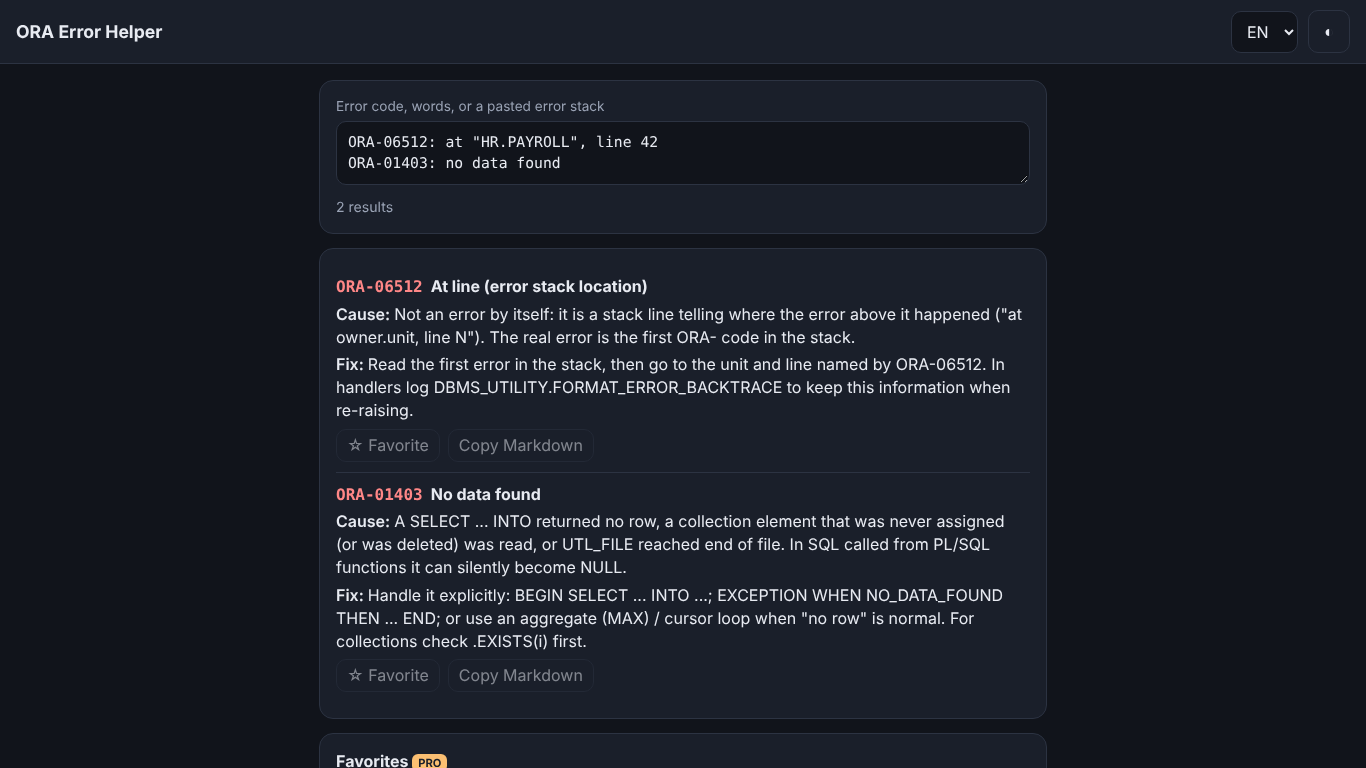
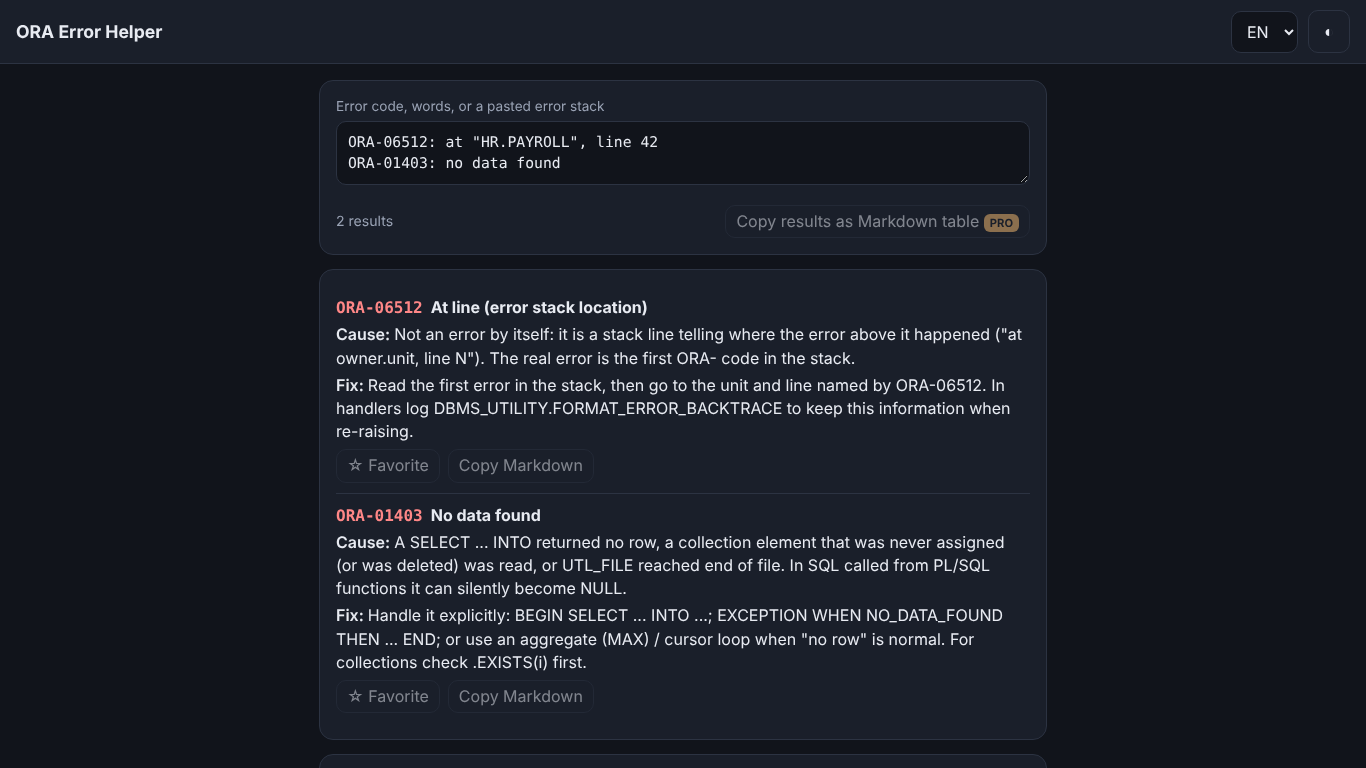
ORA Error Helper: highlights, recent searches, Markdown table
Free: matching words highlighted in titles, causes and fixes for word
searches; recent searches (last 8, one tap, clearable). Pro: copy all
current results (e.g. every error of a pasted stack) as a Markdown table.
Unit + e2e tests, store what's new texts, ora screenshots. Catalog unchanged.

Claude-Session: https://claude.ai/code/session_01YQDvpoPGKtNh935CpkWmt1

diff --git a/ora/app.js b/ora/app.js
@@ -2,23 +2,43 @@
   'use strict';
   const SKU = 'pro';
   const DICT = {
-    ro: { appName: 'Ajutor erori ORA', qLabel: 'Cod de eroare, cuvinte sau un mesaj de eroare lipit', qPh: 'ORA-00942, 942, deadlock sau lipește: ORA-06512: at line 5 ...', favTitle: 'Favorite', proPitch: 'Cauze și soluții pentru toate cele 251 de erori (încă 207), favorite și copiere ca Markdown.', note: 'Explicațiile sunt în engleză. Unealtă independentă, fără legătură cu Oracle.', cause: 'Cauza:', fix: 'Soluția:', proOnly: 'Cauza și soluția pentru această eroare sunt în Pro.', fav: '☆ Favorit', unfav: '★ Scoate', copyMd: 'Copiază Markdown', copied: 'Copiat', nRes: '{n} rezultate', none: 'Nu am găsit nimic. Încearcă un cod (942) sau alt cuvânt.', popular: 'Erori frecvente (gratuite):', noFav: 'Apasă ☆ la o eroare ca s-o păstrezi aici.', notListed: '{c} nu este încă în catalog.' },
-    en: { appName: 'ORA Error Helper', qLabel: 'Error code, words, or a pasted error stack', qPh: 'ORA-00942, 942, deadlock, or paste: ORA-06512: at line 5 ...', favTitle: 'Favorites', proPitch: 'Causes and fixes for all 251 errors (207 more), favorites and copy as Markdown.', note: 'Explanations are in English. Independent tool, not affiliated with Oracle.', cause: 'Cause:', fix: 'Fix:', proOnly: 'The cause and fix for this error are in Pro.', fav: '☆ Favorite', unfav: '★ Remove', copyMd: 'Copy Markdown', copied: 'Copied', nRes: '{n} results', none: 'Nothing found. Try a code (942) or another word.', popular: 'Common errors (free):', noFav: 'Press ☆ on an error to keep it here.', notListed: '{c} is not in the catalog yet.' },
-    ru: { appName: 'Справочник ошибок ORA', qLabel: 'Код ошибки, слова или вставленный текст ошибки', qPh: 'ORA-00942, 942, deadlock или вставьте: ORA-06512: at line 5 ...', favTitle: 'Избранное', proPitch: 'Причины и решения для всех 251 ошибок (ещё 207), избранное и копирование в Markdown.', note: 'Пояснения на английском. Независимый инструмент, не связан с Oracle.', cause: 'Причина:', fix: 'Решение:', proOnly: 'Причина и решение для этой ошибки — в Pro.', fav: '☆ В избранное', unfav: '★ Убрать', copyMd: 'Копировать Markdown', copied: 'Скопировано', nRes: 'Найдено: {n}', none: 'Ничего не найдено. Попробуйте код (942) или другое слово.', popular: 'Частые ошибки (бесплатно):', noFav: 'Нажмите ☆ у ошибки, чтобы сохранить её здесь.', notListed: '{c} пока нет в каталоге.' }
+    ro: { appName: 'Ajutor erori ORA', qLabel: 'Cod de eroare, cuvinte sau un mesaj de eroare lipit', qPh: 'ORA-00942, 942, deadlock sau lipește: ORA-06512: at line 5 ...', favTitle: 'Favorite', proPitch: 'Cauze și soluții pentru toate cele 251 de erori (încă 207), favorite, copiere ca Markdown și copierea tuturor rezultatelor ca tabel Markdown.', recent: 'Recente:', clearRecent: 'Golește', copyTable: 'Copiază rezultatele ca tabel Markdown', note: 'Explicațiile sunt în engleză. Unealtă independentă, fără legătură cu Oracle.', cause: 'Cauza:', fix: 'Soluția:', proOnly: 'Cauza și soluția pentru această eroare sunt în Pro.', fav: '☆ Favorit', unfav: '★ Scoate', copyMd: 'Copiază Markdown', copied: 'Copiat', nRes: '{n} rezultate', none: 'Nu am găsit nimic. Încearcă un cod (942) sau alt cuvânt.', popular: 'Erori frecvente (gratuite):', noFav: 'Apasă ☆ la o eroare ca s-o păstrezi aici.', notListed: '{c} nu este încă în catalog.' },
+    en: { appName: 'ORA Error Helper', qLabel: 'Error code, words, or a pasted error stack', qPh: 'ORA-00942, 942, deadlock, or paste: ORA-06512: at line 5 ...', favTitle: 'Favorites', proPitch: 'Causes and fixes for all 251 errors (207 more), favorites, copy as Markdown and copy all results as a Markdown table.', recent: 'Recent:', clearRecent: 'Clear', copyTable: 'Copy results as Markdown table', note: 'Explanations are in English. Independent tool, not affiliated with Oracle.', cause: 'Cause:', fix: 'Fix:', proOnly: 'The cause and fix for this error are in Pro.', fav: '☆ Favorite', unfav: '★ Remove', copyMd: 'Copy Markdown', copied: 'Copied', nRes: '{n} results', none: 'Nothing found. Try a code (942) or another word.', popular: 'Common errors (free):', noFav: 'Press ☆ on an error to keep it here.', notListed: '{c} is not in the catalog yet.' },
+    ru: { appName: 'Справочник ошибок ORA', qLabel: 'Код ошибки, слова или вставленный текст ошибки', qPh: 'ORA-00942, 942, deadlock или вставьте: ORA-06512: at line 5 ...', favTitle: 'Избранное', proPitch: 'Причины и решения для всех 251 ошибок (ещё 207), избранное, копирование в Markdown и копирование всех результатов таблицей Markdown.', recent: 'Недавние:', clearRecent: 'Очистить', copyTable: 'Копировать результаты таблицей Markdown', note: 'Пояснения на английском. Независимый инструмент, не связан с Oracle.', cause: 'Причина:', fix: 'Решение:', proOnly: 'Причина и решение для этой ошибки — в Pro.', fav: '☆ В избранное', unfav: '★ Убрать', copyMd: 'Копировать Markdown', copied: 'Скопировано', nRes: 'Найдено: {n}', none: 'Ничего не найдено. Попробуйте код (942) или другое слово.', popular: 'Частые ошибки (бесплатно):', noFav: 'Нажмите ☆ у ошибки, чтобы сохранить её здесь.', notListed: '{c} пока нет в каталоге.' }
   };
   const L = OraLookup, DATA = ORA_DATA;
   const $ = id => document.getElementById(id);
-  let isPro = false, favs = [];
+  let isPro = false, favs = [], recent = [], words = [], shown = [], recentTimer = null;
+  try { recent = JSON.parse(Core.store('oraRecent') || '[]'); if (!Array.isArray(recent)) recent = []; } catch (e) { recent = []; }
+  function marked(el, text) {
+    for (const part of L.highlight(text, words)) {
+      if (part.hit) { const m = document.createElement('mark'); m.textContent = part.t; el.append(m); }
+      else el.append(document.createTextNode(part.t));
+    }
+  }
+  function renderRecent() {
+    const box = $('recent'); box.textContent = '';
+    if (!recent.length) return;
+    const l = document.createElement('span'); l.className = 'muted'; l.textContent = Core.t('recent'); box.append(l);
+    for (const r of recent) {
+      const b = document.createElement('button'); b.textContent = r; b.title = r;
+      b.addEventListener('click', () => { $('q').value = r; Core.store('oraQ', r); render(); });
+      box.append(b);
+    }
+    const c = document.createElement('button'); c.textContent = Core.t('clearRecent'); c.className = 'muted';
+    c.addEventListener('click', () => { recent = []; Core.store('oraRecent', '[]'); renderRecent(); });
+    box.append(c);
+  }
   try { favs = JSON.parse(Core.store('oraFavs') || '[]'); } catch (e) { favs = []; }
 
   function card(e) {
     const d = document.createElement('div'); d.className = 'err';
     const h = document.createElement('h3'), c = document.createElement('code'), t = document.createElement('span');
-    c.textContent = e.code; t.textContent = e.title; h.append(c, t); d.append(h);
+    c.textContent = e.code; marked(t, e.title); h.append(c, t); d.append(h);
     if (e.free || isPro) {
       for (const [k, v] of [['cause', e.cause], ['fix', e.fix]]) {
         const p = document.createElement('p'), b = document.createElement('span');
-        b.className = 'lbl'; b.textContent = Core.t(k) + ' '; p.append(b, document.createTextNode(v)); d.append(p);
+        b.className = 'lbl'; b.textContent = Core.t(k) + ' '; p.append(b); marked(p, v); d.append(p);
       }
     } else {
       const p = document.createElement('p'); p.className = 'locked'; p.textContent = Core.t('proOnly'); d.append(p);
@@ -37,6 +57,7 @@
   }
   function render() {
     const q = $('q').value, res = $('results'), list = L.search(DATA, q, 30);
+    words = L.terms(q); shown = list;
     res.textContent = '';
     if (!q.trim()) { const p = document.createElement('p'); p.className = 'muted'; p.style.margin = '0 0 4px'; p.textContent = Core.t('popular'); res.append(p); }
     for (const e of list) res.append(card(e));
@@ -44,14 +65,31 @@
     for (const c of [...new Set(missing)]) { const p = document.createElement('p'); p.className = 'muted'; p.textContent = Core.t('notListed', { c }); res.append(p); }
     if (!list.length && !missing.length) { const p = document.createElement('p'); p.className = 'muted'; p.textContent = Core.t('none'); res.append(p); }
     $('count').textContent = q.trim() ? Core.t('nRes', { n: list.length }) : '';
+    $('copyTable').disabled = !isPro || !list.length;
+    renderRecent();
     const fv = $('favs'); fv.textContent = '';
     const fl = favs.map(c => DATA.find(r => r[0] === c)).filter(Boolean).map(L.entry);
     if (!fl.length) { const p = document.createElement('p'); p.className = 'muted'; p.style.margin = '0'; p.textContent = Core.t('noFav'); fv.append(p); }
+    words = [];
     for (const e of fl) fv.append(card(e));
   }
   Core.init(DICT, render);
   $('q').value = Core.store('oraQ') || '';
-  $('q').addEventListener('input', () => { Core.store('oraQ', $('q').value); render(); });
+  $('q').addEventListener('input', () => {
+    Core.store('oraQ', $('q').value); render();
+    clearTimeout(recentTimer);
+    recentTimer = setTimeout(() => {
+      if (!shown.length) return;
+      recent = L.addRecent(recent, $('q').value); Core.store('oraRecent', JSON.stringify(recent)); renderRecent();
+    }, 1200);
+  });
+  $('copyTable').addEventListener('click', async () => {
+    if (!isPro || !shown.length) return;
+    try {
+      await navigator.clipboard.writeText(L.toMarkdownTable(shown));
+      const sp = $('copyTable').firstElementChild; sp.textContent = Core.t('copied'); setTimeout(() => { sp.textContent = Core.t('copyTable'); }, 1200);
+    } catch (err) { /* clipboard blocked */ }
+  });
   render();
   Core.wirePro(SKU, owned => { isPro = owned; render(); });
 })();

diff --git a/ora/logic.js b/ora/logic.js
@@ -37,7 +37,39 @@
     return scored.sort((a, b) => b[0] - a[0] || a[1].code.localeCompare(b[1].code)).slice(0, lim).map(x => x[1]);
   }
   function toMarkdown(e) { return `**${e.code}: ${e.title}**\n\nCause: ${e.cause}\n\nFix: ${e.fix}\n`; }
-  const OraLookup = { codeOf, codesIn, search, toMarkdown, entry };
+  /* Words that a word search matched on (none for code searches or pasted stacks). */
+  function terms(q) {
+    const s = String(q || '').trim();
+    if (!s || codeOf(s) || codesIn(s).length) return [];
+    return [...new Set(norm(s).split(/\s+/).filter(w => w.length > 1))];
+  }
+  /* Splits text into [{t, hit}] parts marking every occurrence of the terms (case-insensitive). */
+  function highlight(text, words) {
+    text = String(text || '');
+    const ws = (words || []).filter(Boolean);
+    if (!ws.length) return [{ t: text, hit: false }];
+    const low = text.toLowerCase(), marks = new Array(text.length).fill(false);
+    for (const w of ws) { let i = low.indexOf(w); while (i >= 0) { for (let k = i; k < i + w.length; k++) marks[k] = true; i = low.indexOf(w, i + w.length); } }
+    const out = [];
+    for (let i = 0; i < text.length; i++) {
+      if (out.length && out[out.length - 1].hit === marks[i]) out[out.length - 1].t += text[i];
+      else out.push({ t: text[i], hit: marks[i] });
+    }
+    return out.length ? out : [{ t: '', hit: false }];
+  }
+  /* Recent searches: newest first, unique (case-insensitive), single-line and short only. */
+  function addRecent(list, q, max) {
+    const s = String(q || '').replace(/\s+/g, ' ').trim();
+    if (!s || s.length > 60 || /\n/.test(String(q).trim())) return list;
+    return [s].concat((list || []).filter(x => x.toLowerCase() !== s.toLowerCase())).slice(0, max || 8);
+  }
+  /* Markdown table of entries (pipes escaped, newlines flattened). */
+  function toMarkdownTable(entries) {
+    const c = v => String(v).replace(/\\/g, '\\\\').replace(/\|/g, '\\|').replace(/\s*\n\s*/g, ' ');
+    return ['| Code | Title | Cause | Fix |', '| --- | --- | --- | --- |']
+      .concat(entries.map(e => `| ${c(e.code)} | ${c(e.title)} | ${c(e.cause)} | ${c(e.fix)} |`)).join('\n') + '\n';
+  }
+  const OraLookup = { terms, highlight, addRecent, toMarkdownTable, codeOf, codesIn, search, toMarkdown, entry };
   if (typeof module !== 'undefined' && module.exports) module.exports = OraLookup;
   else global.OraLookup = OraLookup;
 })(typeof window !== 'undefined' ? window : globalThis);

diff --git a/ora/index.html b/ora/index.html
@@ -24,6 +24,11 @@
   .err .tools { display: flex; gap: 8px; margin-top: 6px; }
   .err .tools button { padding: 4px 10px; }
   .locked { color: var(--muted); font-style: italic; }
+  mark { background: color-mix(in srgb, var(--accent) 22%, transparent); color: inherit; border-radius: 3px; padding: 0 1px; }
+  .chips { display: flex; flex-wrap: wrap; gap: 6px; margin-top: 8px; align-items: center; }
+  .chips button { padding: 3px 10px; font-size: .88rem; max-width: 100%; overflow: hidden; text-overflow: ellipsis; white-space: nowrap; }
+  .bar2 { display: flex; gap: 8px; align-items: center; justify-content: space-between; flex-wrap: wrap; margin-top: 6px; }
+  .bar2 button { padding: 4px 10px; }
 </style>
 </head>
 <body>
@@ -38,7 +43,11 @@
   <section class="card">
     <label for="q" data-i18n="qLabel">Error code, words, or a pasted error stack</label>
     <textarea id="q" spellcheck="false" data-i18n-ph="qPh" placeholder="ORA-00942, 942, deadlock, or paste: ORA-06512: at line 5 ..."></textarea>
-    <p class="muted" id="count" style="margin:6px 0 0" aria-live="polite"></p>
+    <div class="chips" id="recent"></div>
+    <div class="bar2">
+      <p class="muted" id="count" style="margin:0" aria-live="polite"></p>
+      <button id="copyTable"><span data-i18n="copyTable">Copy results as Markdown table</span> <span class="pro-badge">PRO</span></button>
+    </div>
   </section>
   <section class="card" id="results"></section>
   <section class="card">
@@ -47,7 +56,7 @@
   </section>
   <section class="card pro-box hidden" id="proBox">
     <h2 style="font-size:1rem;margin:0 0 6px" data-i18n="proTitle">Pro version</h2>
-    <p class="muted" data-i18n="proPitch">Causes and fixes for all 251 errors (207 more), favorites and copy as Markdown.</p>
+    <p class="muted" data-i18n="proPitch">Causes and fixes for all 251 errors (207 more), favorites, copy as Markdown and copy all results as a Markdown table.</p>
     <button class="primary" id="proBuy" data-i18n="proBuy">Unlock Pro</button>
     <p class="muted" id="proStatus"></p>
   </section>

diff --git a/tests/e2e.js b/tests/e2e.js
@@ -646,6 +646,40 @@ async function newPage(browser, base, opts = {}) {
     await ctx.close();
   });
 
+  await check('ora v1.2: highlights and recent searches (free), results as Markdown table (Pro)', async () => {
+    let { ctx, page } = await newPage(browser, base);
+    await page.goto(base + 'ora/');
+    await page.fill('#q', 'unique constraint');
+    assert.equal(await page.textContent('#results .err h3 mark'), 'Unique');
+    assert.ok((await page.locator('#results mark').count()) >= 2);
+    await page.waitForSelector('#recent button');
+    assert.match(await page.textContent('#recent'), /Recent:unique constraint/);
+    await page.fill('#q', '942');
+    assert.equal(await page.locator('#results mark').count(), 0);
+    assert.ok(await page.isDisabled('#copyTable'));
+    await page.reload();
+    await page.click('#recent button:has-text("unique constraint")');
+    assert.equal(await page.inputValue('#q'), 'unique constraint');
+    await page.click('#recent button:has-text("Clear")');
+    assert.equal(await page.locator('#recent button').count(), 0);
+    assert.deepEqual(page.errors, []);
+    await ctx.close();
+    ({ ctx, page } = await newPage(browser, base, { pro: true }));
+    await ctx.grantPermissions(['clipboard-read', 'clipboard-write']);
+    await page.goto(base + 'ora/');
+    await page.fill('#q', 'ORA-06512: at "HR.PAY", line 4\nORA-01403: no data found');
+    await page.waitForFunction(() => !document.getElementById('copyTable').disabled);
+    await page.click('#copyTable');
+    const md = await page.evaluate(() => navigator.clipboard.readText());
+    const lines = md.trim().split('\n');
+    assert.equal(lines[0], '| Code | Title | Cause | Fix |');
+    assert.equal(lines.length, 4);
+    assert.match(lines[2], /^\| ORA-06512 \| /);
+    assert.match(lines[3], /^\| ORA-01403 \| /);
+    assert.deepEqual(page.errors, []);
+    await ctx.close();
+  });
+
   await browser.close();
   srv.close();
   console.log(`\n${passed} passed, ${failed} failed`);

diff --git a/tests/unit.test.js b/tests/unit.test.js
@@ -452,3 +452,25 @@ test('pct v1.2: percentage points and proportion (free), CAGR (Pro)', () => {
   assert.ok(Number.isNaN(PC.cagr(100, 200, 0)));
   assert.ok(Number.isNaN(PC.cagr(100, -1, 2)));
 });
+
+test('ora v1.2: highlight terms, recent searches (free); Markdown table (Pro)', () => {
+  assert.deepEqual(OL.terms('Unique  constraint'), ['unique', 'constraint']);
+  assert.deepEqual(OL.terms('942'), []);
+  assert.deepEqual(OL.terms('ORA-06512: at line 5'), []);
+  assert.deepEqual(OL.highlight('Unique constraint violated; UNIQUE', ['unique']),
+    [{ t: 'Unique', hit: true }, { t: ' constraint violated; ', hit: false }, { t: 'UNIQUE', hit: true }]);
+  assert.deepEqual(OL.highlight('abc', []), [{ t: 'abc', hit: false }]);
+  assert.deepEqual(OL.highlight('', ['x']), [{ t: '', hit: false }]);
+  let r = OL.addRecent([], ' deadlock ');
+  r = OL.addRecent(r, '942'); r = OL.addRecent(r, 'DEADLOCK');
+  assert.deepEqual(r, ['DEADLOCK', '942']);
+  assert.deepEqual(OL.addRecent(r, 'ORA-1\nORA-2'), r);
+  assert.deepEqual(OL.addRecent(r, 'x'.repeat(61)), r);
+  let many = [];
+  for (let i = 0; i < 12; i++) many = OL.addRecent(many, 'q' + i);
+  assert.equal(many.length, 8);
+  assert.equal(OL.toMarkdownTable([{ code: 'ORA-1', title: 'a|b', cause: 'line1\nline2', fix: 'x\\y' }]),
+    '| Code | Title | Cause | Fix |\n| --- | --- | --- | --- |\n| ORA-1 | a\\|b | line1 line2 | x\\\\y |\n');
+  const t = OL.toMarkdownTable(OL.search(OD, 'ORA-00942 ORA-00001').slice(0, 2));
+  assert.equal(t.trim().split('\n').length, 4);
+});
